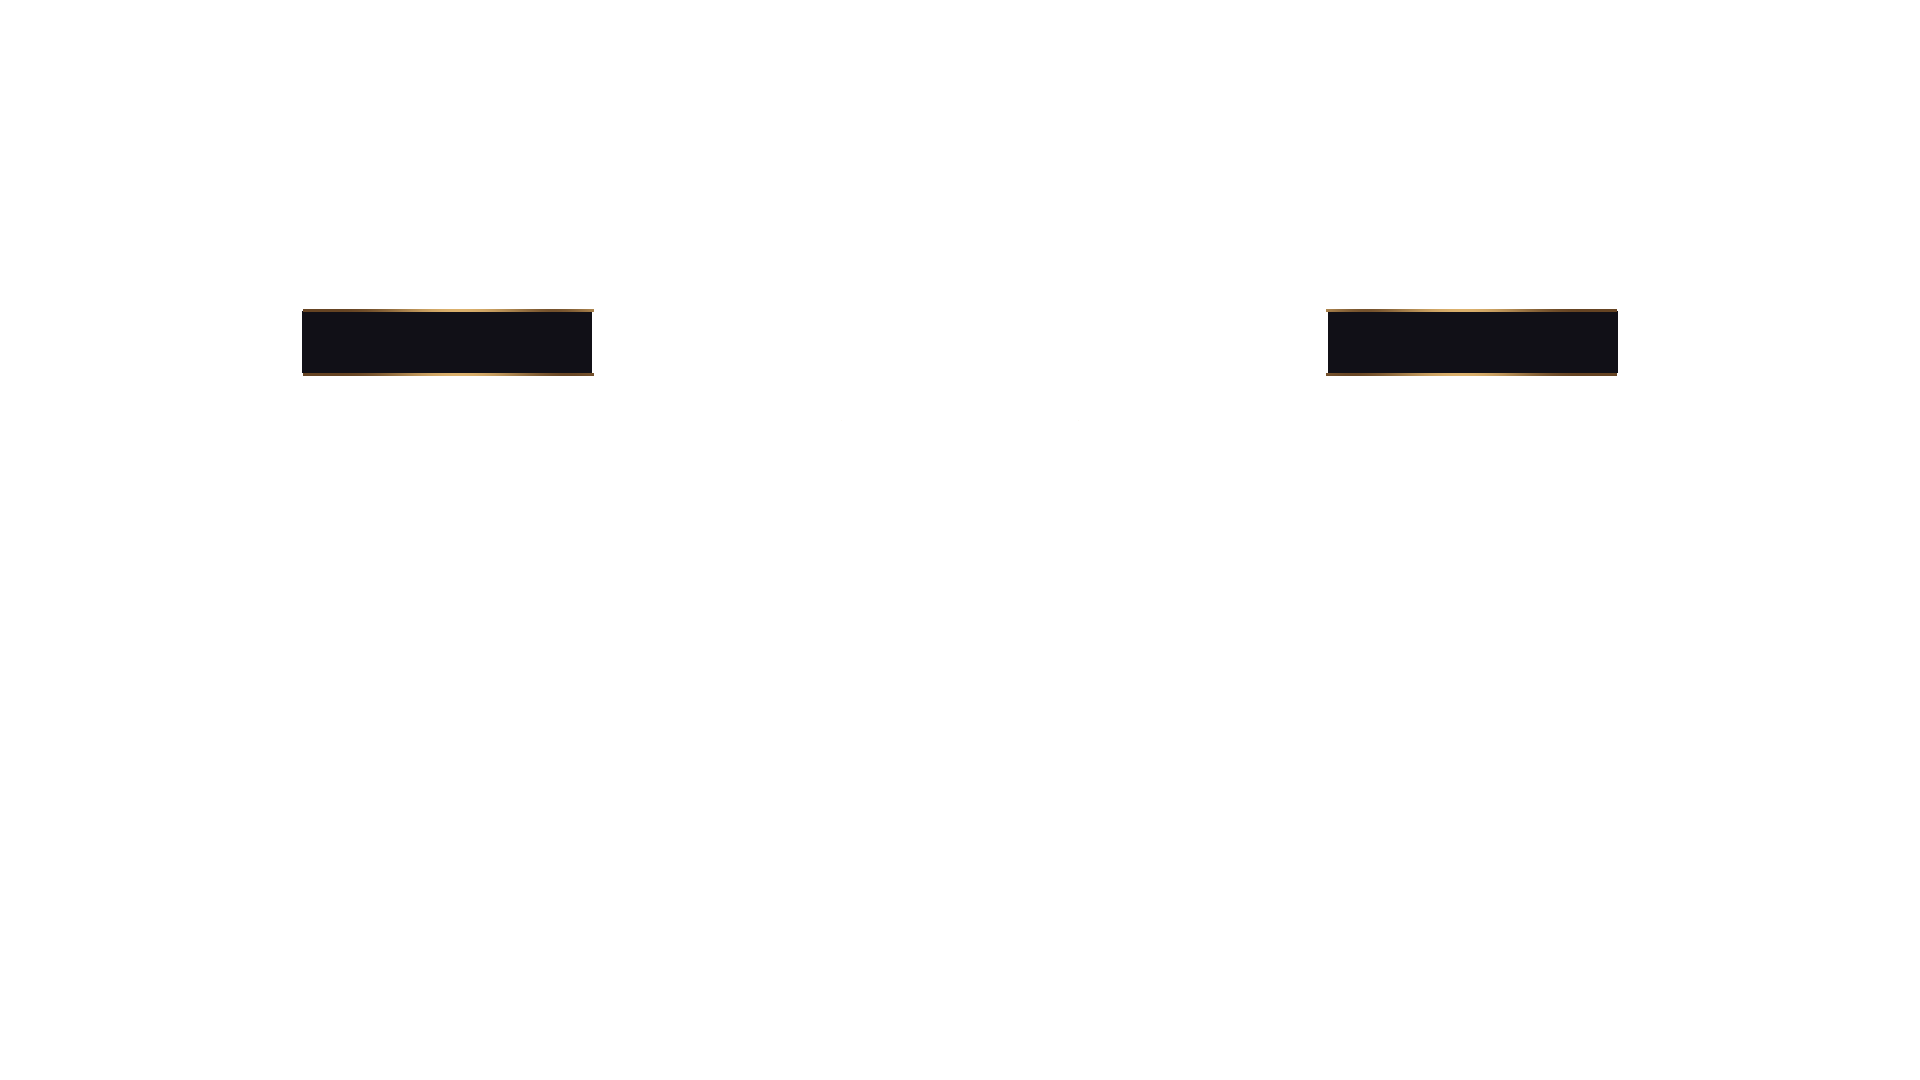
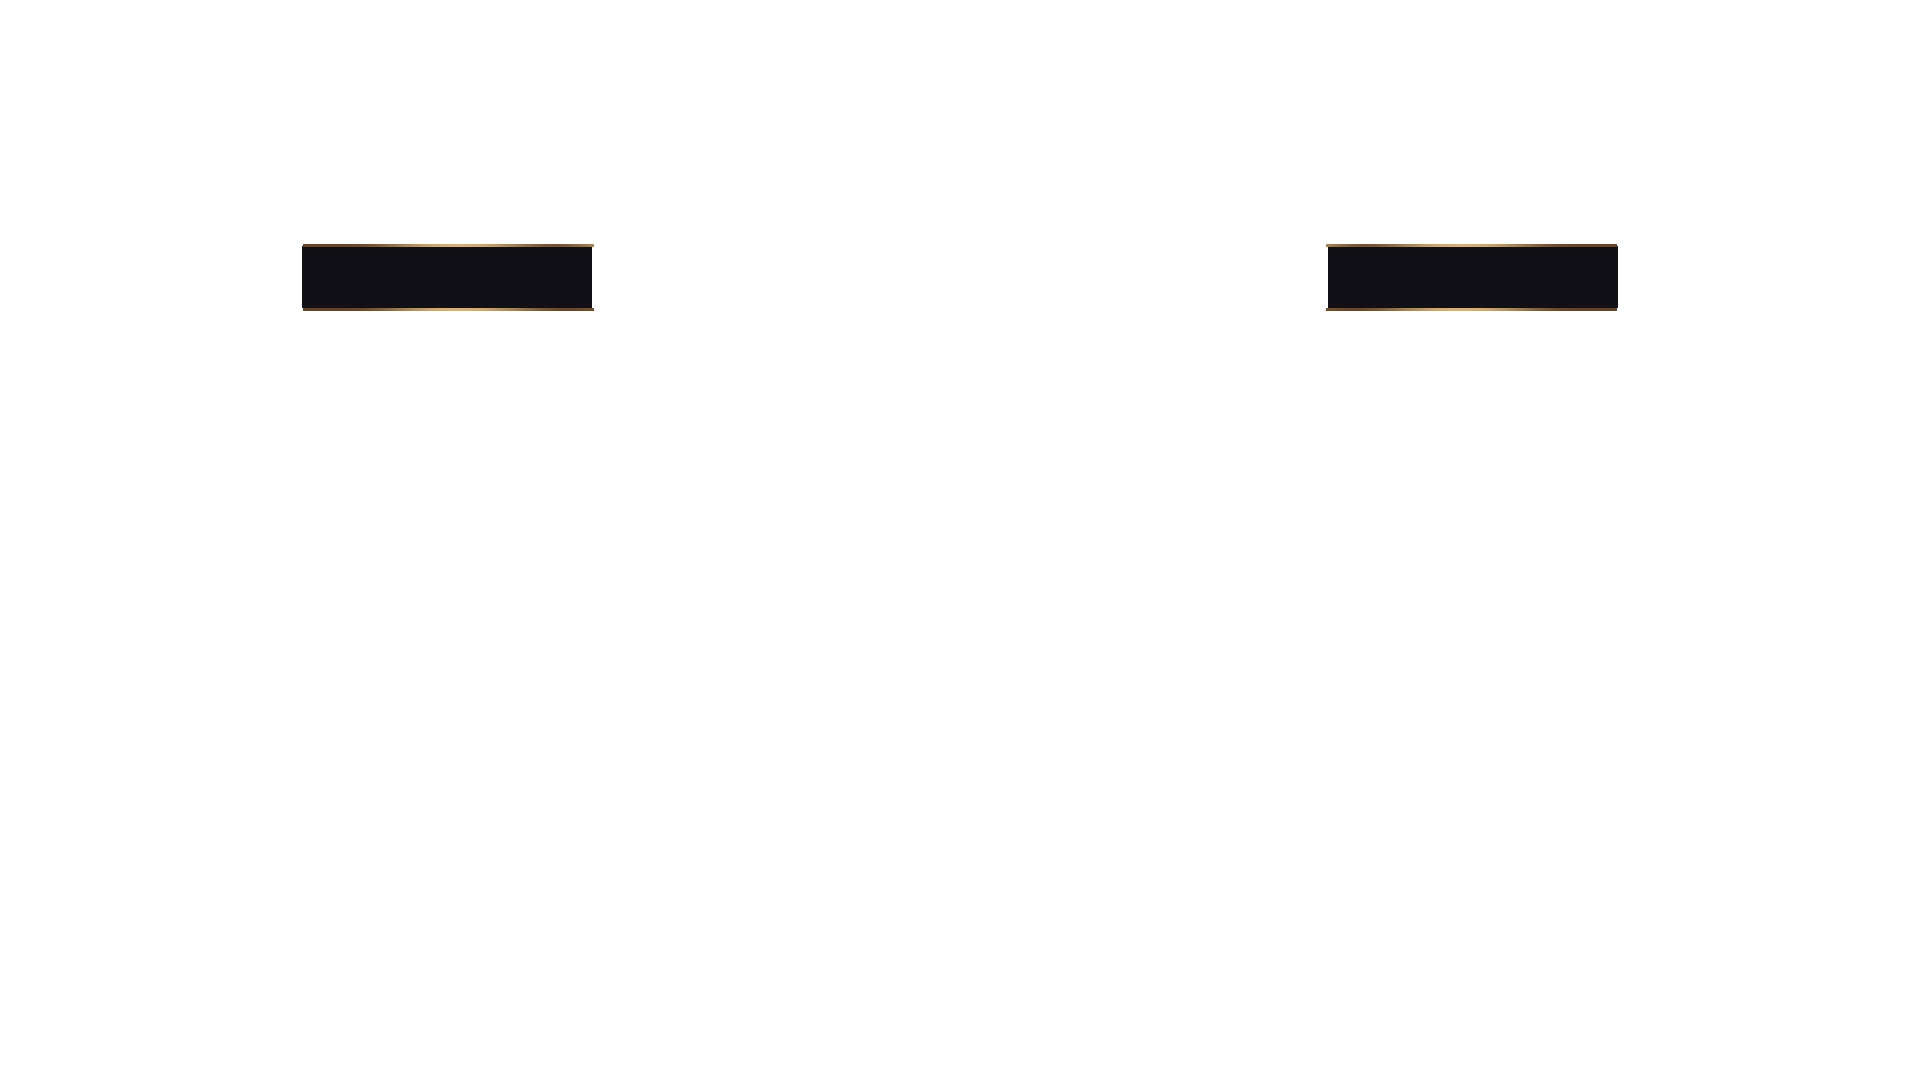
bg2 save

Changed region(s): [[0.6875, 0.2139, 0.8438, 0.3667], [0.1562, 0.2139, 0.3125, 0.3667]]

diff --git a/src/static/view/panel.js b/src/static/view/panel.js
@@ -12715,10 +12715,10 @@
 	            fill: "#ddd"
 	        };
 	        this.bloodText = TextFac_1.TextFac.new_(bs, this)
-	            .setY(442);
+	            .setY(456);
 	        if (isRight) {
 	            this.bloodMask
-	                .drawRect(1060, 449, 425, 90);
+	                .drawRect(1015, 449, 400, 90);
 	            fg.scale.x = -1;
 	            fg.x = 1920;
 	            ctn.x = 1173;
@@ -12726,7 +12726,7 @@
 	        }
 	        else {
 	            this.bloodMask
-	                .drawRect(436, 449, 425, 90);
+	                .drawRect(505, 449, 400, 90);
 	            blood = PixiEx_1.newBitmap({ url: urlLBlood });
 	        }
 	        this.addChild(blood);
@@ -12757,9 +12757,9 @@
 	                .setAlignCenter(645);
 	        }
 	        if (data.bloodRaito != null) {
-	            var bloodWidth = 425 * (1 - data.bloodRaito);
+	            var bloodWidth = 400 * (1 - data.bloodRaito);
 	            if (data.bloodRaito == 0) {
-	                bloodWidth = 422;
+	                bloodWidth = 397;
 	            }
 	            if (this.isRight) {
 	                this.bloodMask.x = bloodWidth;
@@ -12770,15 +12770,20 @@
 	                this.pName.setAlignCenter(PixiEx_1._c(-267));
 	            }
 	        }
-	        if (data.blood != null) {
-	            if (this.isRight)
-	                this.bloodText.setText('5')
-	                    .setAlignCenter(PixiEx_1._c(489));
-	            else
-	                this.bloodText.setText('5')
-	                    .setAlignCenter(PixiEx_1._c(-489));
+	        var curBlood;
+	        if (data.curBlood != null) {
+	            curBlood = data.curBlood;
 	        }
-	        console.log('set info', data.playerId);
+	        else if (data.blood != null) {
+	            curBlood = data.blood;
+	        }
+	        if (this.isRight)
+	            this.bloodText.setText(curBlood)
+	                .setAlignCenter(PixiEx_1._c(492));
+	        else
+	            this.bloodText.setText(curBlood)
+	                .setAlignCenter(PixiEx_1._c(-492));
+	        console.log('set info', data.cid);
 	        var avtUrl = urlBase + data.playerId + '.png';
 	        ImgLoader_1.imgLoader.loadTexRemote(avtUrl, function (_) {
 	            _this.avt.texture = ImgLoader_1.imgLoader.getTex(avtUrl);
@@ -12825,22 +12830,22 @@
 	            _this.rTimeoutMaskArr = [];
 	            var tm = new PIXI.Graphics()
 	                .beginFill(0x020206)
-	                .drawRect(600, 145, 130, 50);
+	                .drawRect(600, 145 - 62, 130, 50);
 	            _this.addChild(tm);
 	            _this.lTimeoutMaskArr.push(tm);
 	            tm = new PIXI.Graphics()
 	                .beginFill(0x020206)
-	                .drawRect(730, 145, 130, 50);
+	                .drawRect(730, 145 - 62, 130, 50);
 	            _this.addChild(tm);
 	            _this.lTimeoutMaskArr.push(tm);
 	            tm = new PIXI.Graphics()
 	                .beginFill(0x020206)
-	                .drawRect(1190, 145, 130, 50);
+	                .drawRect(1190, 145 - 62, 130, 50);
 	            _this.addChild(tm);
 	            _this.rTimeoutMaskArr.push(tm);
 	            tm = new PIXI.Graphics()
 	                .beginFill(0x020206)
-	                .drawRect(1060, 145, 130, 50);
+	                .drawRect(1060, 145 - 62, 130, 50);
 	            _this.addChild(tm);
 	            _this.rTimeoutMaskArr.push(tm);
 	            var ns = {
@@ -12850,7 +12855,7 @@
 	                fill: "#ddd"
 	            };
 	            _this.lFoul = TextFac_1.TextFac.new_(ns, _this)
-	                .setY(300)
+	                .setY(300 - 62)
 	                .setText("0")
 	                .setAlignCenter(PixiEx_1._c(-133));
 	            _this.rFoul = TextFac_1.TextFac.new_(ns, _this)
@@ -12859,7 +12864,7 @@
 	                .setAlignCenter(PixiEx_1._c(133));
 	            ns.fontSize = "120px";
 	            _this.lBlood = TextFac_1.TextFac.new_(ns, _this)
-	                .setY(218 - 37)
+	                .setY(218 - 37 - 62)
 	                .setText("0")
 	                .setAlignCenter(PixiEx_1._c(-280));
 	            _this.rBlood = TextFac_1.TextFac.new_(ns, _this)
@@ -12875,7 +12880,7 @@
 	            ns.fontSize = "43px";
 	            _this.lName = TextFac_1.TextFac.new_(ns, _this)
 	                .setText('')
-	                .setY(315)
+	                .setY(315 - 62)
 	                .setAlignCenter(PixiEx_1._c(-516));
 	            _this.rName = TextFac_1.TextFac.new_(ns, _this)
 	                .setText('')
@@ -12904,6 +12909,7 @@
 	            if (b.playerId == data.lPlayer) {
 	                curBloodArr[0] = b.blood - data.rScore;
 	                data.bloodRaito = curBloodArr[0] / b.initBlood;
+	                data.curBlood = curBloodArr[0];
 	                b.setInfo(data);
 	            }
 	        }
@@ -12911,6 +12917,7 @@
 	            var b = this.rPlayerArr[i];
 	            if (b.playerId == data.rPlayer) {
 	                curBloodArr[1] = b.blood - data.lScore;
+	                data.curBlood = curBloodArr[1];
 	                data.bloodRaito = curBloodArr[1] / b.initBlood;
 	                b.setInfo(data);
 	            }
@@ -12928,9 +12935,9 @@
 	        if (data.cid == Command_1.CommandId.sc_setBlood) {
 	            var curBloodArr = this._setCurBlood(data);
 	            this.lBlood.setText(curBloodArr[0])
-	                .setAlignCenter(PixiEx_1._c(-300));
+	                .setAlignCenter(PixiEx_1._c(-294));
 	            this.rBlood.setText(curBloodArr[1])
-	                .setAlignCenter(PixiEx_1._c(300));
+	                .setAlignCenter(PixiEx_1._c(294));
 	        }
 	        if (data.cid == Command_1.CommandId.sc_setPlayer) {
 	            this.lBlood.setText(data.leftPlayer.blood)
@@ -12947,7 +12954,7 @@
 	                .setAlignCenter(PixiEx_1._c(516));
 	            var lAvtUrl_1 = urlBase + data.leftPlayer.playerId + '.png';
 	            this.lAvt.x = 351;
-	            this.lAvt.y = 144;
+	            this.lAvt.y = 144 - 62;
 	            ImgLoader_1.imgLoader.loadTexRemote(lAvtUrl_1, function (_) {
 	                _this.lAvt.texture = ImgLoader_1.imgLoader.getTex(lAvtUrl_1);
 	                PixiEx_1.setScale(_this.lAvt, 190 / _this.lAvt.texture.width);

diff --git a/src/client/view/panel/stageOnline/score/worldWar/BigBlood.ts b/src/client/view/panel/stageOnline/score/worldWar/BigBlood.ts
@@ -60,11 +60,11 @@ class ___BloodPlayer extends PIXI.Container {
         };
 
         this.bloodText = TextFac.new_(bs, this)
-            .setY(442)
+            .setY(456)
 
         if (isRight) {
             this.bloodMask
-                .drawRect(1060, 449, 425, 90)
+                .drawRect(1015, 449, 400, 90)
             fg.scale.x = -1
             fg.x = 1920
             ctn.x = 1173
@@ -72,7 +72,7 @@ class ___BloodPlayer extends PIXI.Container {
         }
         else {
             this.bloodMask
-                .drawRect(436, 449, 425, 90)
+                .drawRect(505, 449, 400, 90)
             blood = newBitmap({ url: urlLBlood })
         }
 
@@ -110,9 +110,9 @@ class ___BloodPlayer extends PIXI.Container {
                 .setAlignCenter(645)
         }
         if (data.bloodRaito != null) {
-            let bloodWidth = 425 * (1 - data.bloodRaito)
+            let bloodWidth = 400 * (1 - data.bloodRaito)
             if (data.bloodRaito == 0) {
-                bloodWidth = 422
+                bloodWidth = 397
             }
             if (this.isRight) {
                 this.bloodMask.x = bloodWidth
@@ -123,16 +123,21 @@ class ___BloodPlayer extends PIXI.Container {
                 this.pName.setAlignCenter(_c(-267))
             }
         }
-        if (data.blood != null) {
-            if (this.isRight)
-                this.bloodText.setText('5')
-                    .setAlignCenter(_c(489))
-            else
-                this.bloodText.setText('5')
-                    .setAlignCenter(_c(-489))
+        let curBlood;
+        if (data.curBlood != null) {
+            curBlood = data.curBlood
         }
+        else if (data.blood != null) {
+            curBlood = data.blood
+        }
+        if (this.isRight)
+            this.bloodText.setText(curBlood)
+                .setAlignCenter(_c(492))
+        else
+            this.bloodText.setText(curBlood)
+                .setAlignCenter(_c(-492))
 
-        console.log('set info', data.playerId);
+        console.log('set info', data.cid);
         let avtUrl = urlBase + data.playerId + '.png'
         imgLoader.loadTexRemote(avtUrl, _ => {
             this.avt.texture = imgLoader.getTex(avtUrl)
@@ -195,25 +200,25 @@ export class BigBlood extends BasePanel {
             this.rTimeoutMaskArr = []
             let tm = new PIXI.Graphics()
                 .beginFill(0x020206)
-                .drawRect(600, 145, 130, 50)
+                .drawRect(600, 145-62, 130 , 50)
             this.addChild(tm)
             this.lTimeoutMaskArr.push(tm)
 
             tm = new PIXI.Graphics()
                 .beginFill(0x020206)
-                .drawRect(730, 145, 130, 50)
+                .drawRect(730, 145-62, 130 , 50)
             this.addChild(tm)
             this.lTimeoutMaskArr.push(tm)
 
             tm = new PIXI.Graphics()
                 .beginFill(0x020206)
-                .drawRect(1190, 145, 130, 50)
+                .drawRect(1190, 145-62, 130, 50)
             this.addChild(tm)
             this.rTimeoutMaskArr.push(tm)
 
             tm = new PIXI.Graphics()
                 .beginFill(0x020206)
-                .drawRect(1060, 145, 130, 50)
+                .drawRect(1060, 145-62, 130, 50)
             this.addChild(tm)
             this.rTimeoutMaskArr.push(tm)
 
@@ -225,7 +230,7 @@ export class BigBlood extends BasePanel {
             };
 
             this.lFoul = TextFac.new_(ns, this)
-                .setY(300)
+                .setY(300 - 62)
                 .setText("0")
                 .setAlignCenter(_c(-133))
 
@@ -236,7 +241,7 @@ export class BigBlood extends BasePanel {
 
             ns.fontSize = "120px"
             this.lBlood = TextFac.new_(ns, this)
-                .setY(218 - 37)
+                .setY(218 - 37 - 62)
                 .setText("0")
                 .setAlignCenter(_c(-280))
 
@@ -256,7 +261,7 @@ export class BigBlood extends BasePanel {
             ns.fontSize = "43px"
             this.lName = TextFac.new_(ns, this)
                 .setText('')
-                .setY(315)
+                .setY(315 - 62)
                 .setAlignCenter(_c(-516))
 
             this.rName = TextFac.new_(ns, this)
@@ -293,6 +298,7 @@ export class BigBlood extends BasePanel {
             if (b.playerId == data.lPlayer) {
                 curBloodArr[0] = b.blood - data.rScore
                 data.bloodRaito = curBloodArr[0] / b.initBlood;
+                data.curBlood = curBloodArr[0]
                 b.setInfo(data)
             }
         }
@@ -300,6 +306,7 @@ export class BigBlood extends BasePanel {
             let b = this.rPlayerArr[i]
             if (b.playerId == data.rPlayer) {
                 curBloodArr[1] = b.blood - data.lScore
+                data.curBlood = curBloodArr[1]
                 data.bloodRaito = curBloodArr[1] / b.initBlood;
                 b.setInfo(data)
             }
@@ -318,9 +325,9 @@ export class BigBlood extends BasePanel {
         if (data.cid == CommandId.sc_setBlood) {
             let curBloodArr = this._setCurBlood(data)
             this.lBlood.setText(curBloodArr[0])
-                .setAlignCenter(_c(-300))
+                .setAlignCenter(_c(-294))
             this.rBlood.setText(curBloodArr[1])
-                .setAlignCenter(_c(300))
+                .setAlignCenter(_c(294))
         }
 
         if (data.cid == CommandId.sc_setPlayer) {
@@ -341,7 +348,7 @@ export class BigBlood extends BasePanel {
 
             let lAvtUrl = urlBase + data.leftPlayer.playerId + '.png'
             this.lAvt.x = 351
-            this.lAvt.y = 144
+            this.lAvt.y = 144 - 62
             imgLoader.loadTexRemote(lAvtUrl, _ => {
                 this.lAvt.texture = imgLoader.getTex(lAvtUrl)
                 setScale(this.lAvt, 190 / this.lAvt.texture.width)
